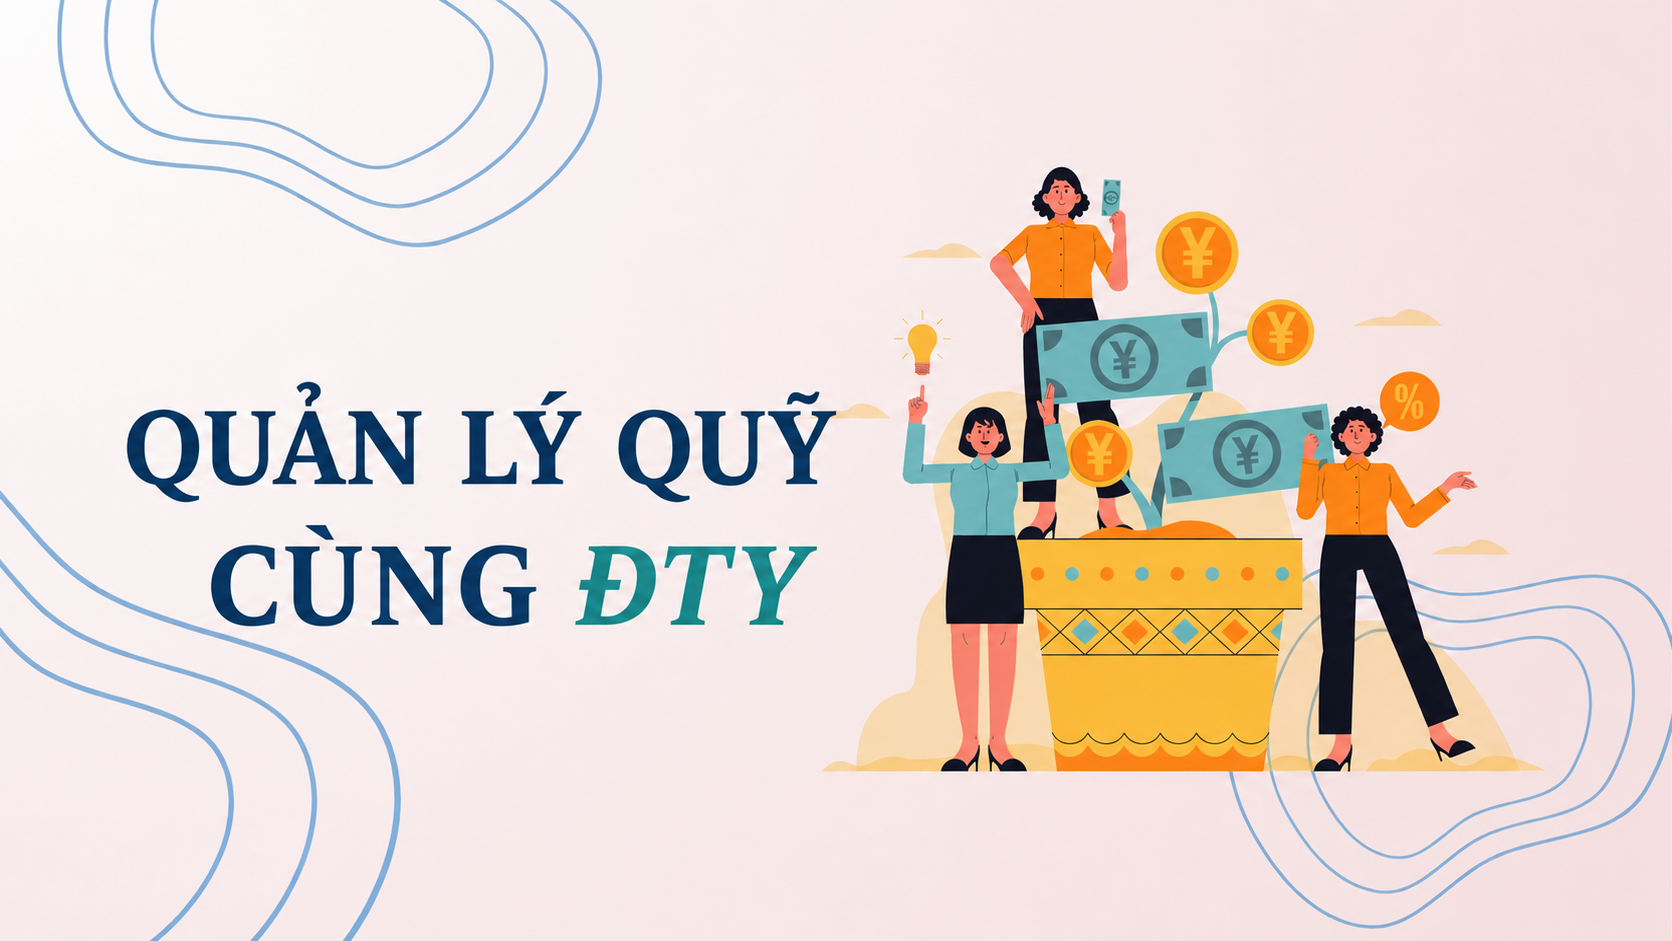
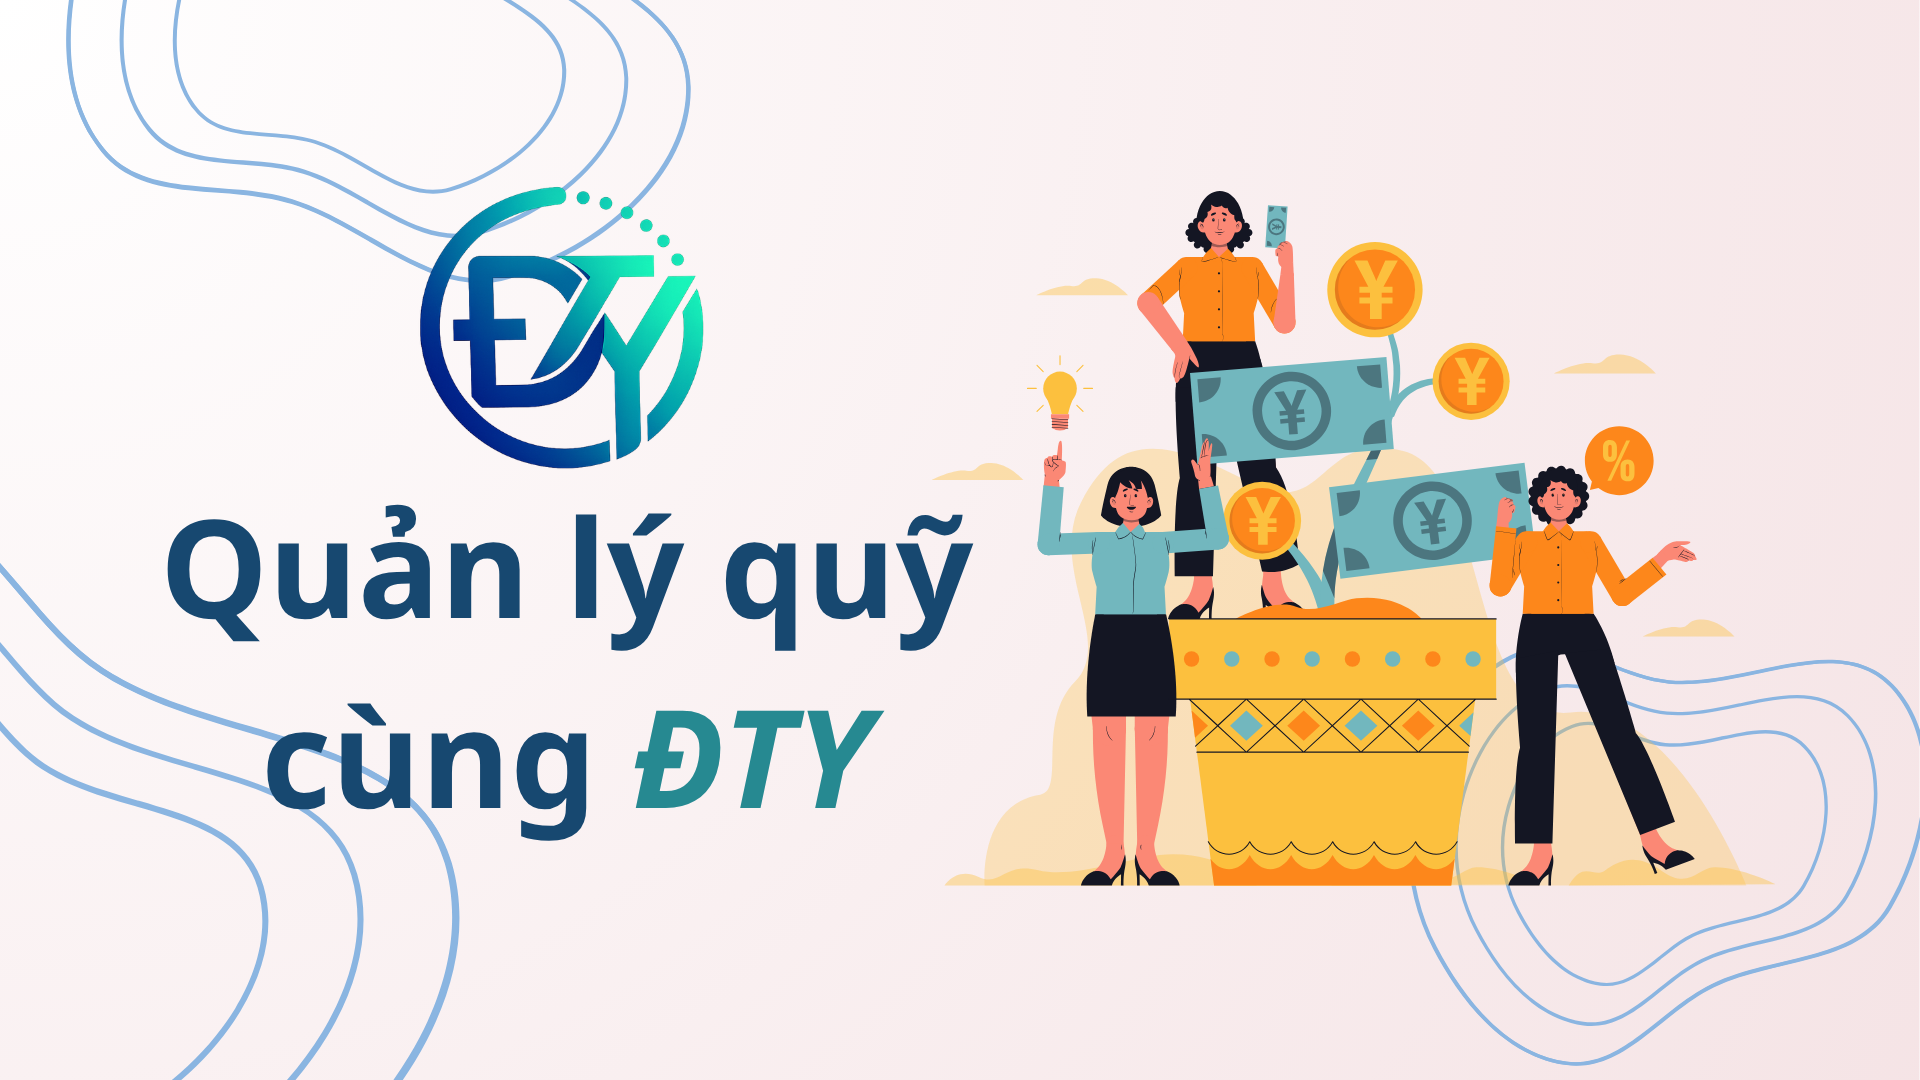
Done by DND

diff --git a/resources/views/global_layout/header.blade.php b/resources/views/global_layout/header.blade.php
@@ -32,87 +32,140 @@
             </button>
 
             <div class="flex gap-6">
-
-                <div class="w-[100px] h-[100px] bg-white rounded-2xl shadow-lg flex flex-col items-center pt-3">
-                    <div class="h-[45px] flex items-center">
-                        <img src="{{ asset('images/icons/ChuyenTien.png') }}" class="w-[43px] h-[43px]">
+                <a href="#">
+                    <div
+                        class="service-card w-[100px] h-[100px] bg-white rounded-2xl shadow-lg flex flex-col items-center pt-3 cursor-pointer">
+                        <div class="h-[45px] flex items-center">
+                            <img src="{{ asset('images/icons/ChuyenTien.png') }}"
+                                data-normal="{{ asset('images/icons/ChuyenTien.png') }}"
+                                data-hover="{{ asset('images/icons/ChuyenTienhover.png') }}"
+                                class="service-icon w-[43px] h-[43px]">
+                        </div>
+                        <span class="service-text text-[18px] text-center leading-tight">
+                            Chuyển<br>tiền
+                        </span>
                     </div>
-                    <span class="text-[18px] text-center leading-tight">
-                        Chuyển<br>tiền
-                    </span>
-                </div>
+                </a>
 
-                <div class="w-[100px] h-[100px] bg-white rounded-2xl shadow-lg flex flex-col items-center pt-3">
-                    <div class="h-[45px] flex items-center">
-                        <img src="{{ asset('images/icons/NapTien.png') }}" class="w-[43px] h-[43px]">
+                <a href="#">
+                    <div
+                        class="service-card w-[100px] h-[100px] bg-white rounded-2xl shadow-lg flex flex-col items-center pt-3 cursor-pointer">
+                        <div class="h-[45px] flex items-center">
+                            <img src="{{ asset('images/icons/NapTien.png') }}"
+                                data-normal="{{ asset('images/icons/NapTien.png') }}"
+                                data-hover="{{ asset('images/icons/NapTienhover.png') }}"
+                                class="service-icon w-[43px] h-[43px]">
+                        </div>
+                        <span class="service-text text-[18px] text-center leading-tight">
+                            Nạp tiền
+                        </span>
                     </div>
-                    <span class="text-[18px] text-center leading-tight">
-                        Nạp tiền
-                    </span>
-                </div>
+                </a>
 
-                <div class="w-[100px] h-[100px] bg-white rounded-2xl shadow-lg flex flex-col items-center pt-3">
-                    <div class="h-[45px] flex items-center">
-                        <img src="{{ asset('images/icons/RutTien.png') }}" class="w-[43px] h-[43px]">
+                <a href="#">
+                    <div
+                        class="service-card w-[100px] h-[100px] bg-white rounded-2xl shadow-lg flex flex-col items-center pt-3 cursor-pointer">
+                        <div class="h-[45px] flex items-center">
+                            <img src="{{ asset('images/icons/RutTien.png') }}"
+                                data-normal="{{ asset('images/icons/RutTien.png') }}"
+                                data-hover="{{ asset('images/icons/RutTienhover.png') }}"
+                                class="service-icon w-[43px] h-[43px]">
+                        </div>
+                        <span class="service-text text-[18px] text-center leading-tight">
+                            Rút tiền
+                        </span>
                     </div>
-                    <span class="text-[18px] text-center leading-tight">
-                        Rút tiền
-                    </span>
-                </div>
+                </a>
 
-                <div class="w-[100px] h-[100px] bg-white rounded-2xl shadow-lg flex flex-col items-center pt-3">
-                    <div class="h-[45px] flex items-center">
-                        <img src="{{ asset('images/icons/ThanhToanHoaDon.png') }}" class="w-[43px] h-[43px]">
+                <a href="#">
+                    <div
+                        class="service-card w-[100px] h-[100px] bg-white rounded-2xl shadow-lg flex flex-col items-center pt-3 cursor-pointer">
+                        <div class="h-[45px] flex items-center">
+                            <img src="{{ asset('images/icons/ThanhToanHoaDon.png') }}"
+                                data-normal="{{ asset('images/icons/ThanhToanHoaDon.png') }}"
+                                data-hover="{{ asset('images/icons/ThanhToanHoaDonhover.png') }}"
+                                class="service-icon w-[43px] h-[43px]">
+                        </div>
+                        <span class="service-text text-[18px] text-center leading-tight">
+                            Thanh<br>toán
+                        </span>
                     </div>
-                    <span class="text-[18px] text-center leading-tight">
-                        Thanh<br>toán
-                    </span>
-                </div>
+                </a>
 
-                <div class="w-[100px] h-[100px] bg-white rounded-2xl shadow-lg flex flex-col items-center pt-3">
-                    <div class="h-[45px] flex items-center">
-                        <img src="{{ asset('images/icons/ChiTieu.png') }}" class="w-[43px] h-[43px]">
+                <a href="#">
+                    <div
+                        class="service-card w-[100px] h-[100px] bg-white rounded-2xl shadow-lg flex flex-col items-center pt-3 cursor-pointer">
+                        <div class="h-[45px] flex items-center">
+                            <img src="{{ asset('images/icons/ChiTieu.png') }}"
+                                data-normal="{{ asset('images/icons/ChiTieu.png') }}"
+                                data-hover="{{ asset('images/icons/ChiTieuhover.png') }}"
+                                class="service-icon w-[43px] h-[43px]">
+                        </div>
+                        <span class="service-text text-[18px] text-center leading-tight">
+                            Quản lý<br>chi tiêu
+                        </span>
                     </div>
-                    <span class="text-[18px] text-center leading-tight">
-                        Quản lý<br>chi tiêu
-                    </span>
-                </div>
+                </a>
 
-                <div class="w-[100px] h-[100px] bg-white rounded-2xl shadow-lg flex flex-col items-center pt-3">
-                    <div class="h-[45px] flex items-center">
-                        <img src="{{ asset('images/icons/Hitory_money.png') }}" class="w-[43px] h-[43px]">
+                <a href="#">
+                    <div
+                        class="service-card w-[100px] h-[100px] bg-white rounded-2xl shadow-lg flex flex-col items-center pt-3 cursor-pointer">
+                        <div class="h-[45px] flex items-center">
+                            <img src="{{ asset('images/icons/Hitory_money.png') }}"
+                                data-normal="{{ asset('images/icons/Hitory_money.png') }}"
+                                data-hover="{{ asset('images/icons/Hitory_moneyhover.png') }}"
+                                class="service-icon w-[43px] h-[43px]">
+                        </div>
+                        <span class="service-text text-[18px] text-center leading-tight">
+                            Lịch sử<br>giao dịch
+                        </span>
                     </div>
-                    <span class="text-[18px] text-center leading-tight">
-                        Lịch sử<br>giao dịch
-                    </span>
-                </div>
+                </a>
 
-                <div class="w-[100px] h-[100px] bg-white rounded-2xl shadow-lg flex flex-col items-center pt-3">
-                    <div class="h-[45px] flex items-center">
-                        <img src="{{ asset('images/icons/Money_Phone.png') }}" class="w-[43px] h-[43px]">
+                <a href="#">
+                    <div
+                        class="service-card w-[100px] h-[100px] bg-white rounded-2xl shadow-lg flex flex-col items-center pt-3 cursor-pointer">
+                        <div class="h-[45px] flex items-center">
+                            <img src="{{ asset('images/icons/Money_Phone.png') }}"
+                                data-normal="{{ asset('images/icons/Money_Phone.png') }}"
+                                data-hover="{{ asset('images/icons/Money_Phonehover.png') }}"
+                                class="service-icon w-[43px] h-[43px]">
+                        </div>
+                        <span class="service-text text-[18px] text-center leading-tight">
+                            Nạp tiền<br>điện thoại
+                        </span>
                     </div>
-                    <span class="text-[18px] text-center leading-tight">
-                        Nạp tiền<br>điện thoại
-                    </span>
-                </div>
+                </a>
 
-                <div class="w-[100px] h-[100px] bg-white rounded-2xl shadow-lg flex flex-col items-center pt-3">
-                    <div class="h-[45px] flex items-center">
-                        <img src="{{ asset('images/icons/QlyQuy.png') }}" class="w-[43px] h-[43px]">
+                <a href="/QuanLyQuy">
+                    <div
+                        class="service-card {{ request()->is('QuanLyQuy') ? 'service-card-active' : '' }} w-[100px] h-[100px] bg-white rounded-2xl shadow-lg flex flex-col items-center pt-3 cursor-pointer">
+                        <div class="h-[45px] flex items-center">
+                            <img src="{{ request()->is('QuanLyQuy') ? asset('images/icons/QlyQuyhover.png') : asset('images/icons/QlyQuy.png') }}"
+                                data-normal="{{ asset('images/icons/QlyQuy.png') }}"
+                                data-hover="{{ asset('images/icons/QlyQuyhover.png') }}"
+                                class="service-icon w-[43px] h-[43px]">
+                        </div>
+                        <span class="service-text text-[18px] text-center leading-tight">
+                            Quản lý<br>quỹ
+                        </span>
                     </div>
-                    <span class="text-[18px] text-center leading-tight">
-                        Quản lý<br>quỹ
-                    </span>
-                </div>
+                </a>
 
-                <div class="w-[100px] h-[100px] bg-white rounded-2xl shadow-lg flex flex-col items-center pt-3">
-                    <div class="h-[45px] flex items-center">
-                        <img src="{{ asset('images/icons/HuChiTieu.png') }}" class="w-[43px] h-[43px]">
+                <a href="#">
+                    <div
+                        class="service-card w-[100px] h-[100px] bg-white rounded-2xl shadow-lg flex flex-col items-center pt-3 cursor-pointer">
+                        <div class="h-[45px] flex items-center">
+                            <img src="{{ asset('images/icons/HuChiTieu.png') }}"
+                                data-normal="{{ asset('images/icons/HuChiTieu.png') }}"
+                                data-hover="{{ asset('images/icons/HuChiTieuhover.png') }}"
+                                class="service-icon w-[43px] h-[43px]">
+                        </div>
+                        <span class="service-text text-[18px] text-center leading-tight">
+                            Hũ chi<br>tiêu
+                        </span>
                     </div>
-                    <span class="text-[18px] text-center leading-tight">
-                        Hũ chi<br>tiêu
-                    </span>
-                </div>
+                </a>
 
             </div>
 
@@ -126,3 +179,57 @@
 </body>
 
 </html>
+
+<style>
+    .service-card {
+        transition: all .3s ease;
+    }
+
+    .service-card:hover,
+    .service-card-active {
+        background: #D91773;
+        box-shadow: 0 12px 24px rgba(217, 23, 115, .35);
+    }
+
+    .service-card:hover .service-text,
+    .service-card-active .service-text {
+        color: white;
+    }
+
+    .service-text {
+        transition: color .3s ease;
+    }
+
+    .service-icon {
+        transition: all .3s ease;
+    }
+</style>
+
+<script>
+    document.querySelectorAll('.service-card').forEach(card => {
+
+        const img = card.querySelector('.service-icon');
+
+        card.addEventListener('mouseenter', () => {
+            img.src = img.dataset.hover;
+        });
+
+        card.addEventListener('mouseleave', () => {
+            img.src = img.dataset.normal;
+        });
+
+    });
+    document.querySelectorAll('.service-card').forEach(card => {
+
+        const img = card.querySelector('.service-icon');
+
+        card.addEventListener('mouseenter', () => {
+            img.src = img.dataset.hover;
+        });
+
+        card.addEventListener('mouseleave', () => {
+            img.src = img.dataset.normal;
+        });
+
+    });
+</script>

diff --git a/resources/views/global_layout/navbar.blade.php b/resources/views/global_layout/navbar.blade.php
@@ -19,8 +19,10 @@
     <div class="h-full px-8 flex items-center justify-between">
 
         <div class="flex items-center gap-4">
-            <img src="{{ asset('images/logo_bgr_pink.jpg') }}" alt="Logo"
-                class="h-[70px] w-[70px] border-2 border-[#707070] rounded-md">
+            <a href="/global_layout/body">
+                <img src="{{ asset('images/logo_bgr_pink.jpg') }}" alt="Logo"
+                    class="h-[70px] w-[70px] border-2 border-[#707070] rounded-md">
+            </a>
 
             <div class="flex items-center gap-6 ml-8">
                 <a class="text-lg font-bold text-black">Dịch vụ</a>
